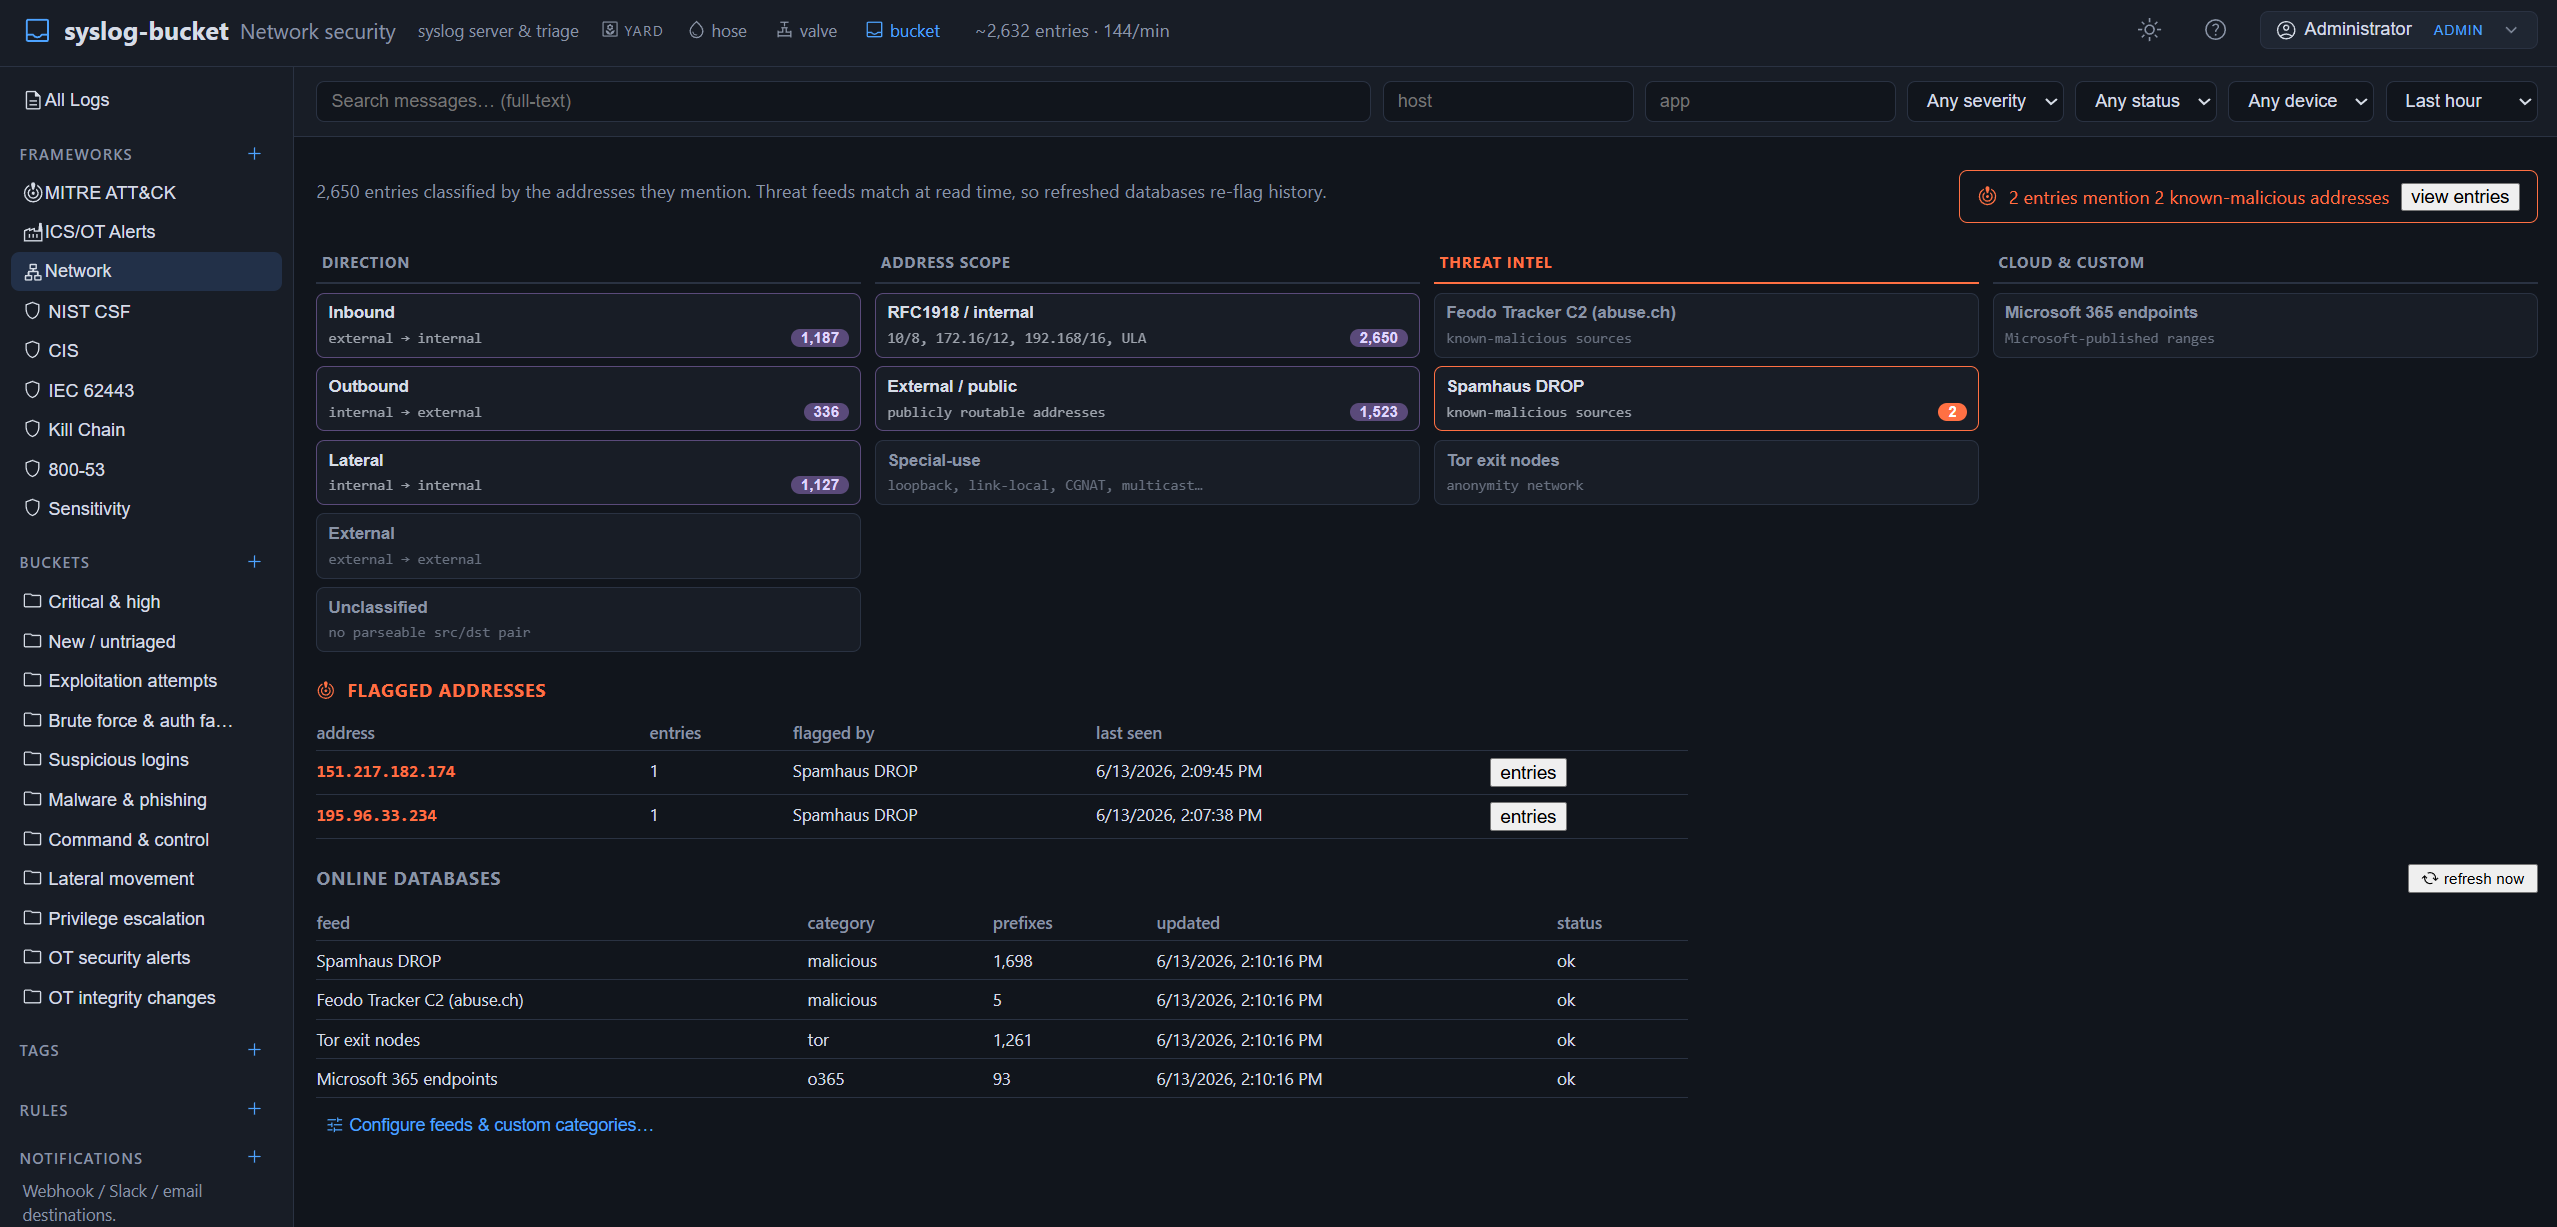
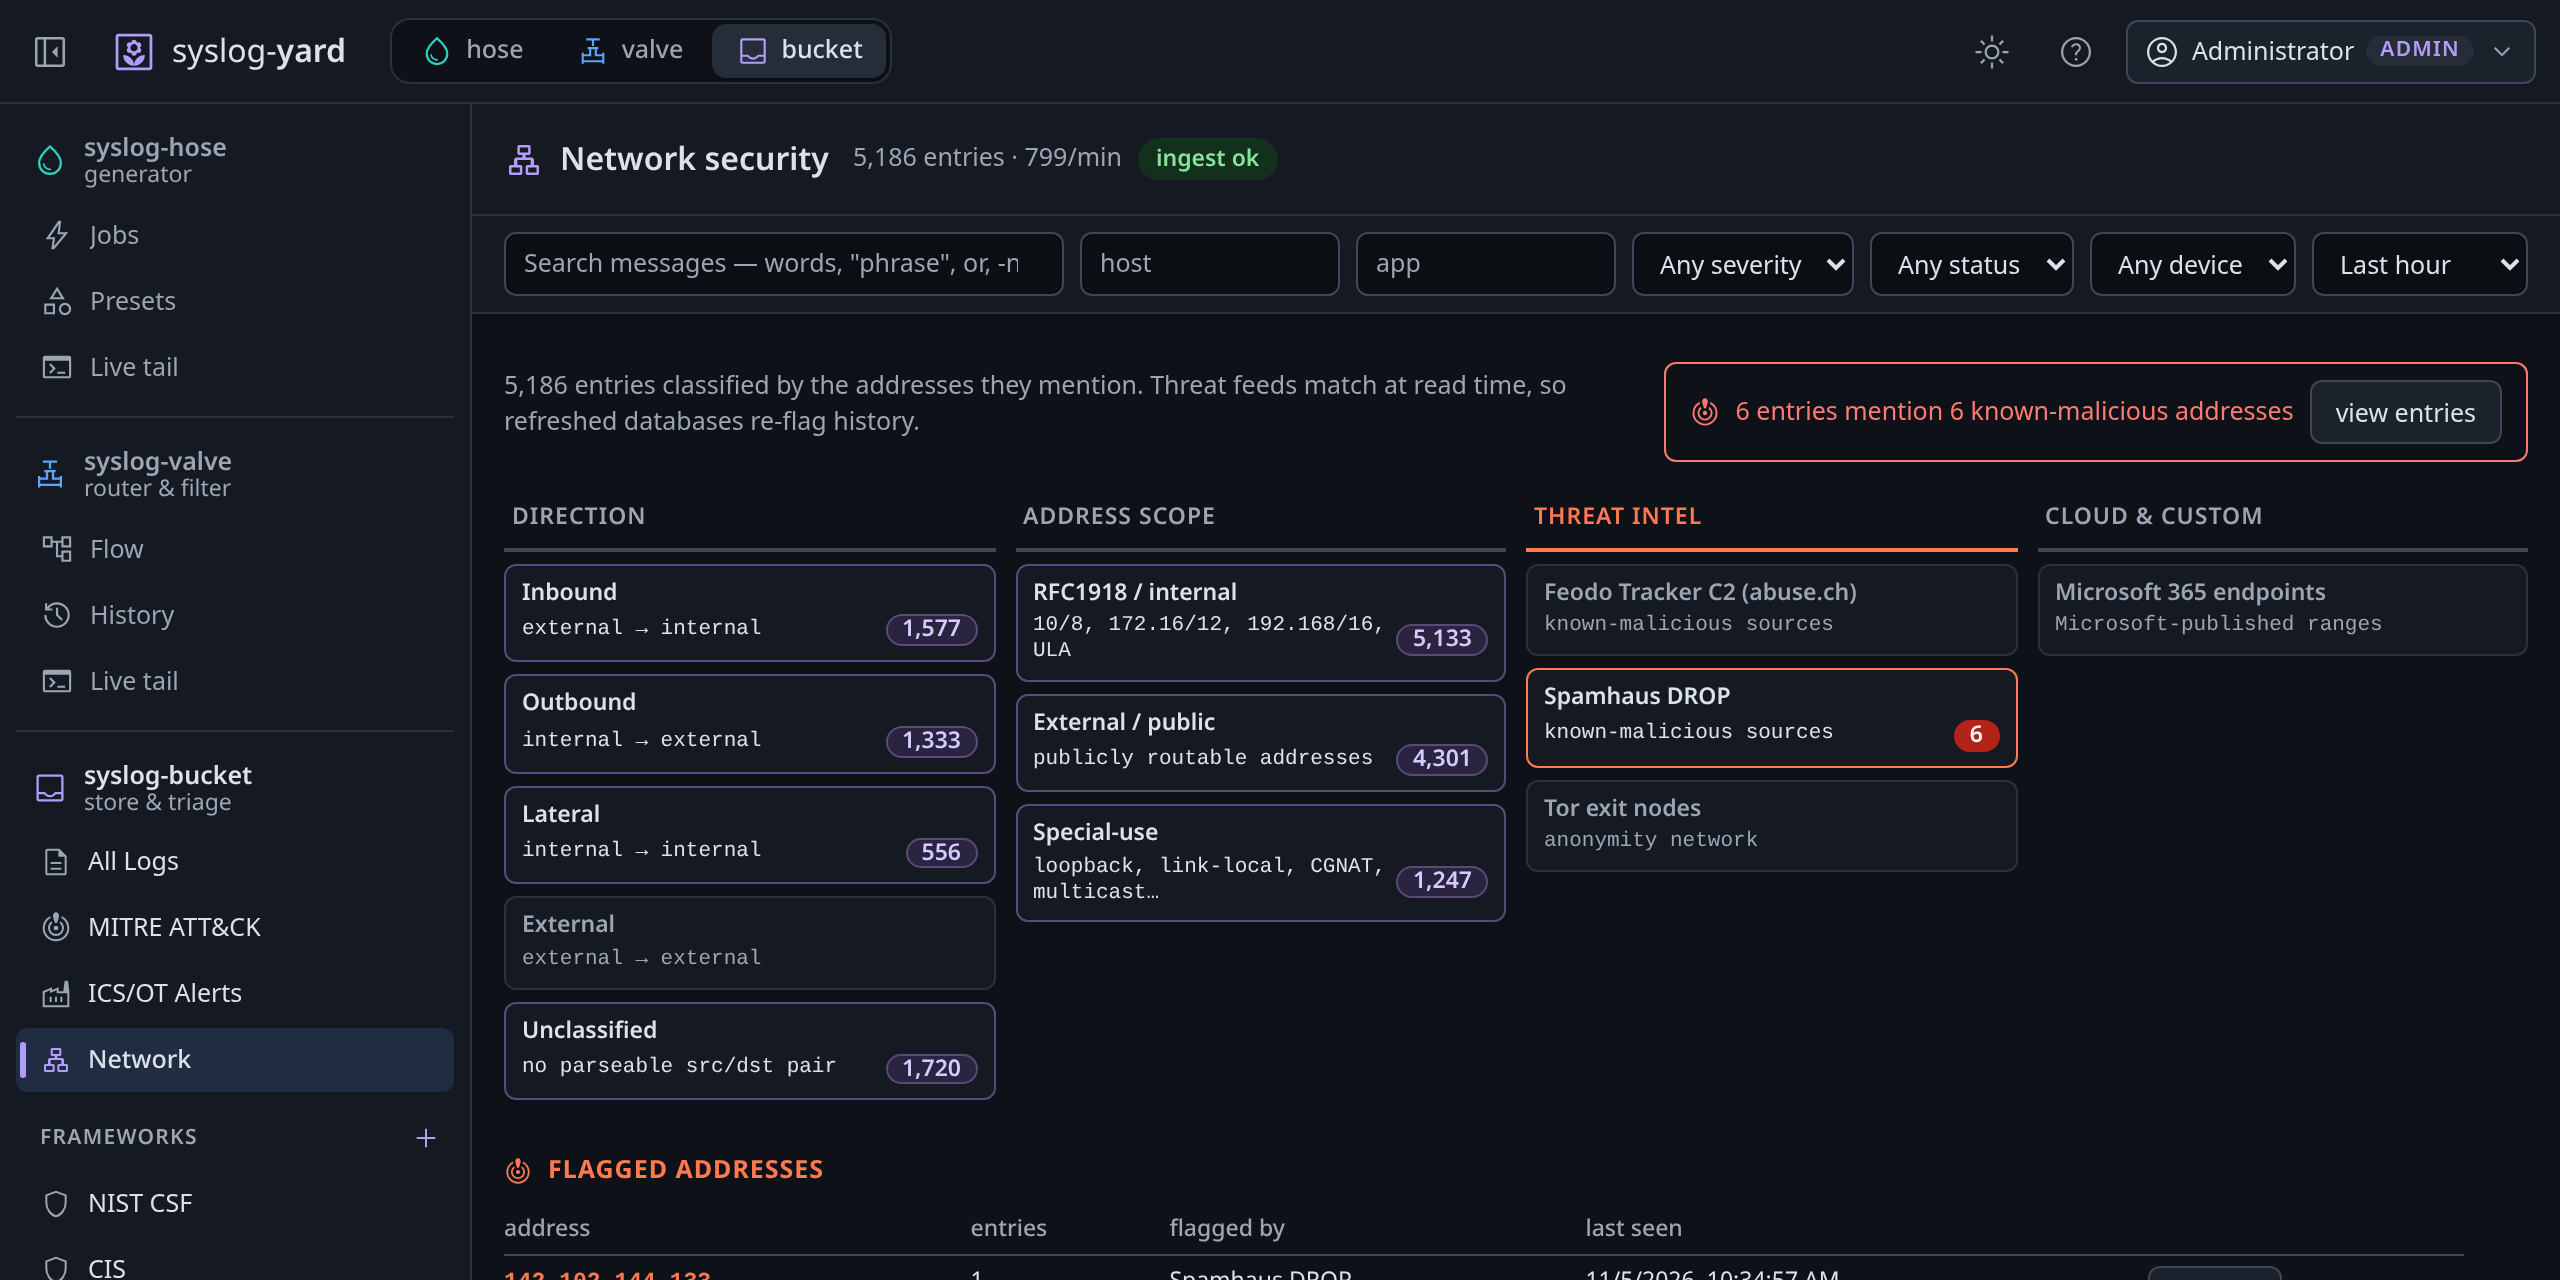
docs: refresh README screenshots from a seeded demo yard (#45)
Hero and feature shots now show the shared shell. The annotated
syslog-valve-example01.png is left as is.

diff --git a/CHANGELOG.md b/CHANGELOG.md
@@ -60,6 +60,8 @@ All notable changes to syslog-yard are recorded here. The format follows
 
 ### Changed
 
+- docs: the README screenshots show the shared shell, taken from a seeded
+  demo yard ([#45]).
 - bucket: a suppressed entry never notifies. When any matching rule
   suppresses an entry, the notifications queued for it by `notify` actions
   are dropped, whatever the rule and action order. Before, suppressed
@@ -315,6 +317,7 @@ Released under the MIT License; see the commit history for its contents.
 [#42]: https://github.com/fqazzazee/syslog-yard/issues/42
 [#43]: https://github.com/fqazzazee/syslog-yard/issues/43
 [#44]: https://github.com/fqazzazee/syslog-yard/issues/44
+[#45]: https://github.com/fqazzazee/syslog-yard/issues/45
 [#46]: https://github.com/fqazzazee/syslog-yard/issues/46
 [#47]: https://github.com/fqazzazee/syslog-yard/issues/47
 [#48]: https://github.com/fqazzazee/syslog-yard/issues/48
